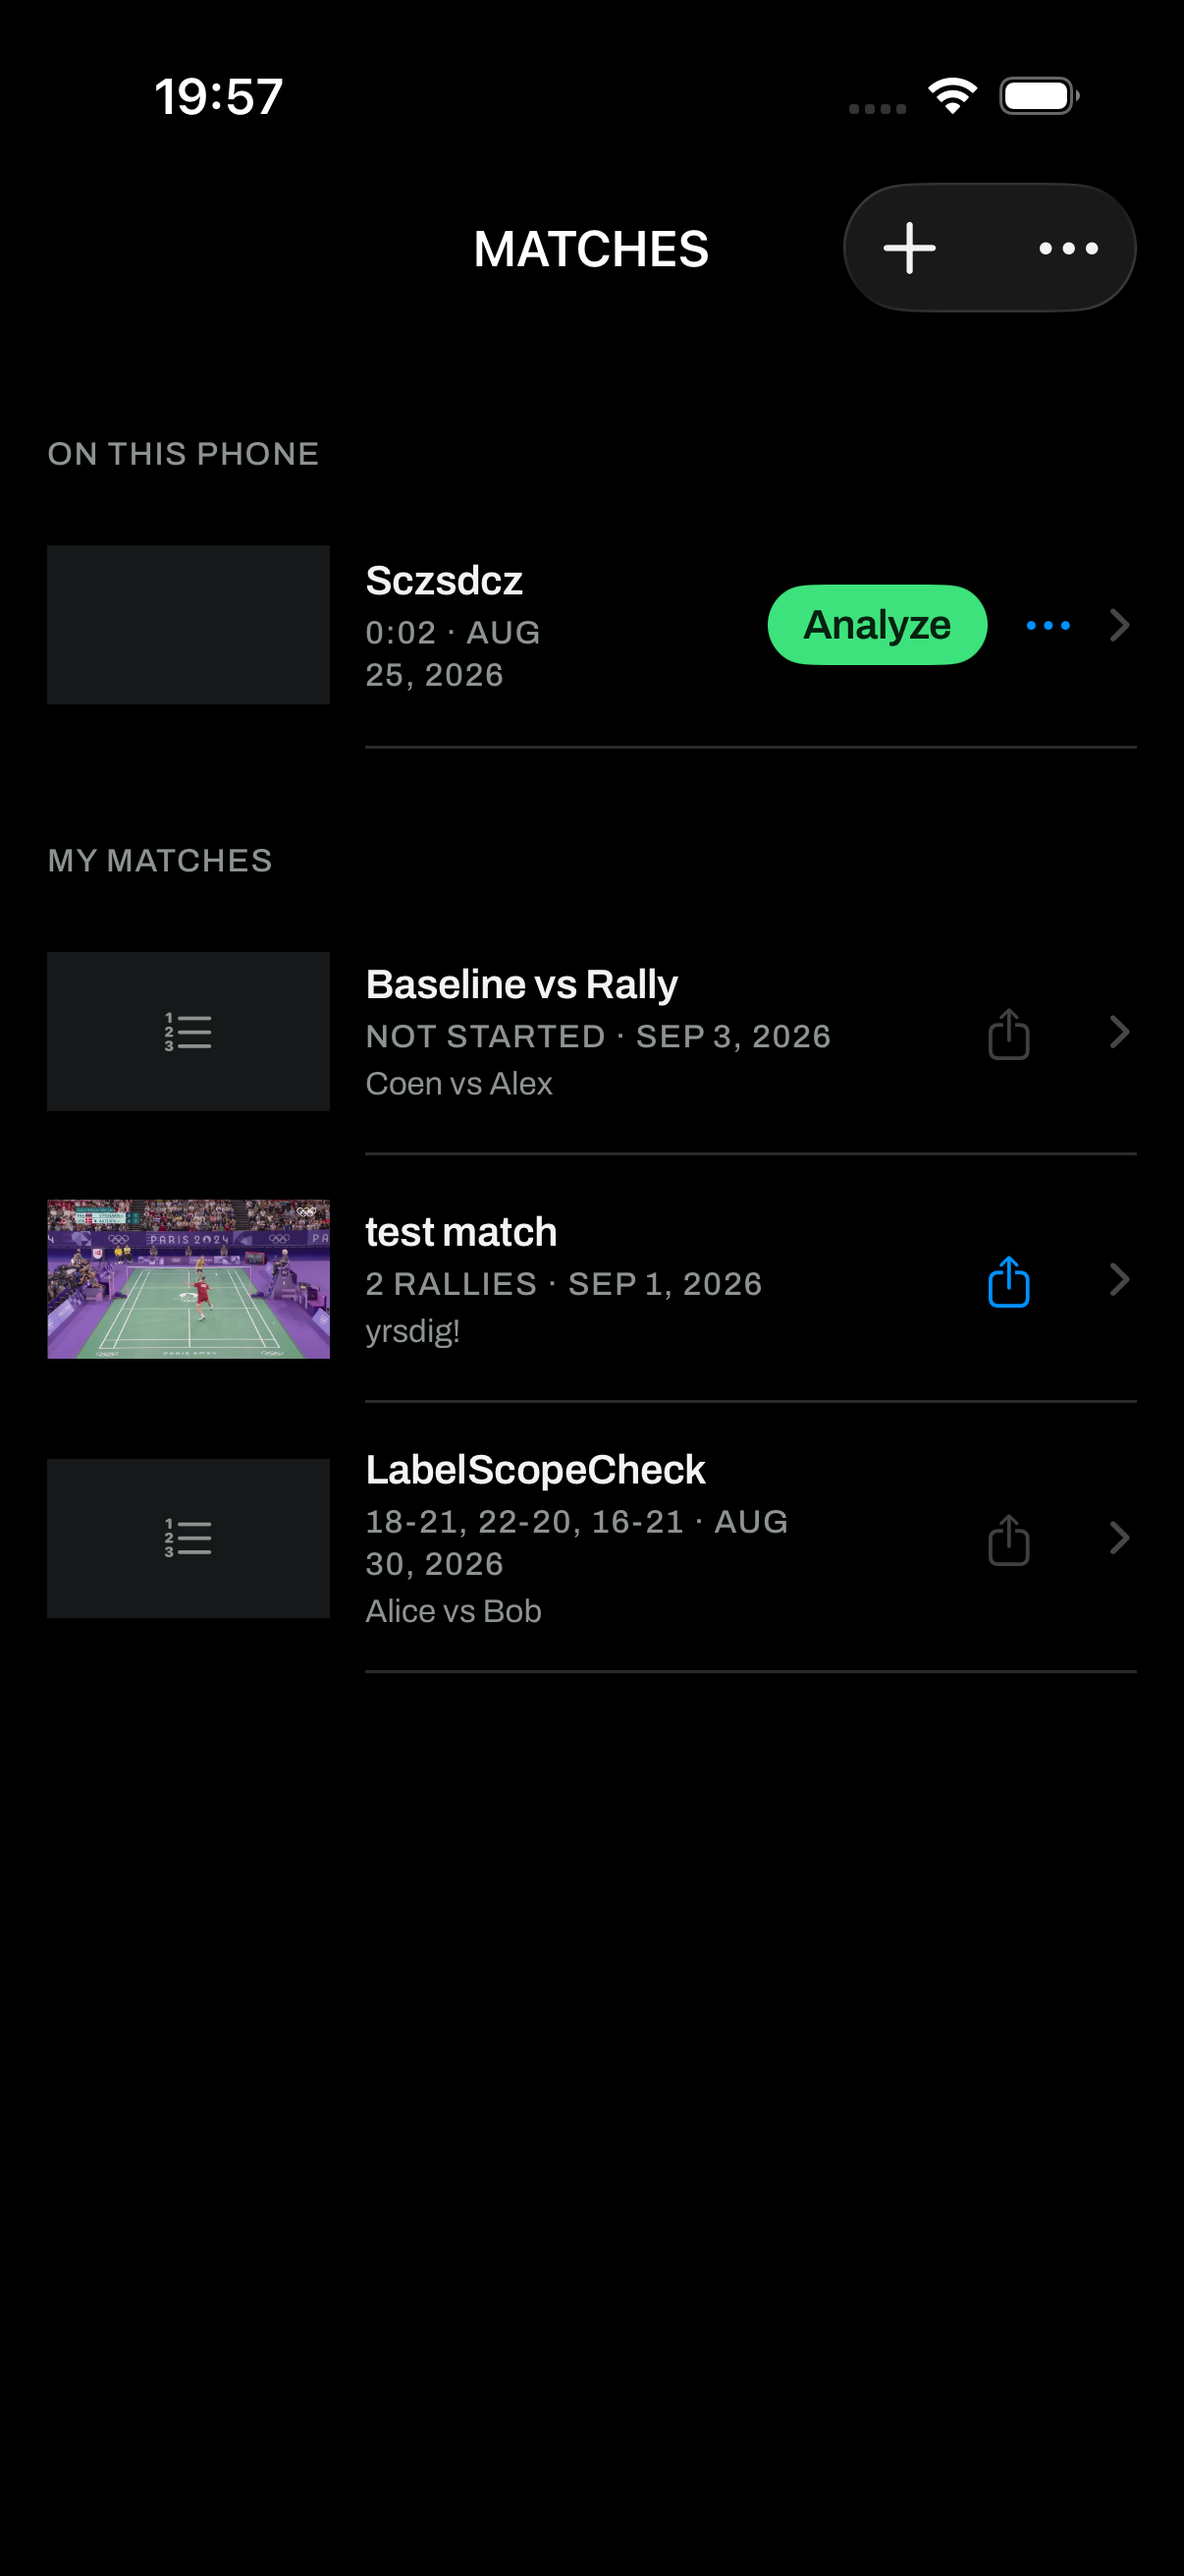
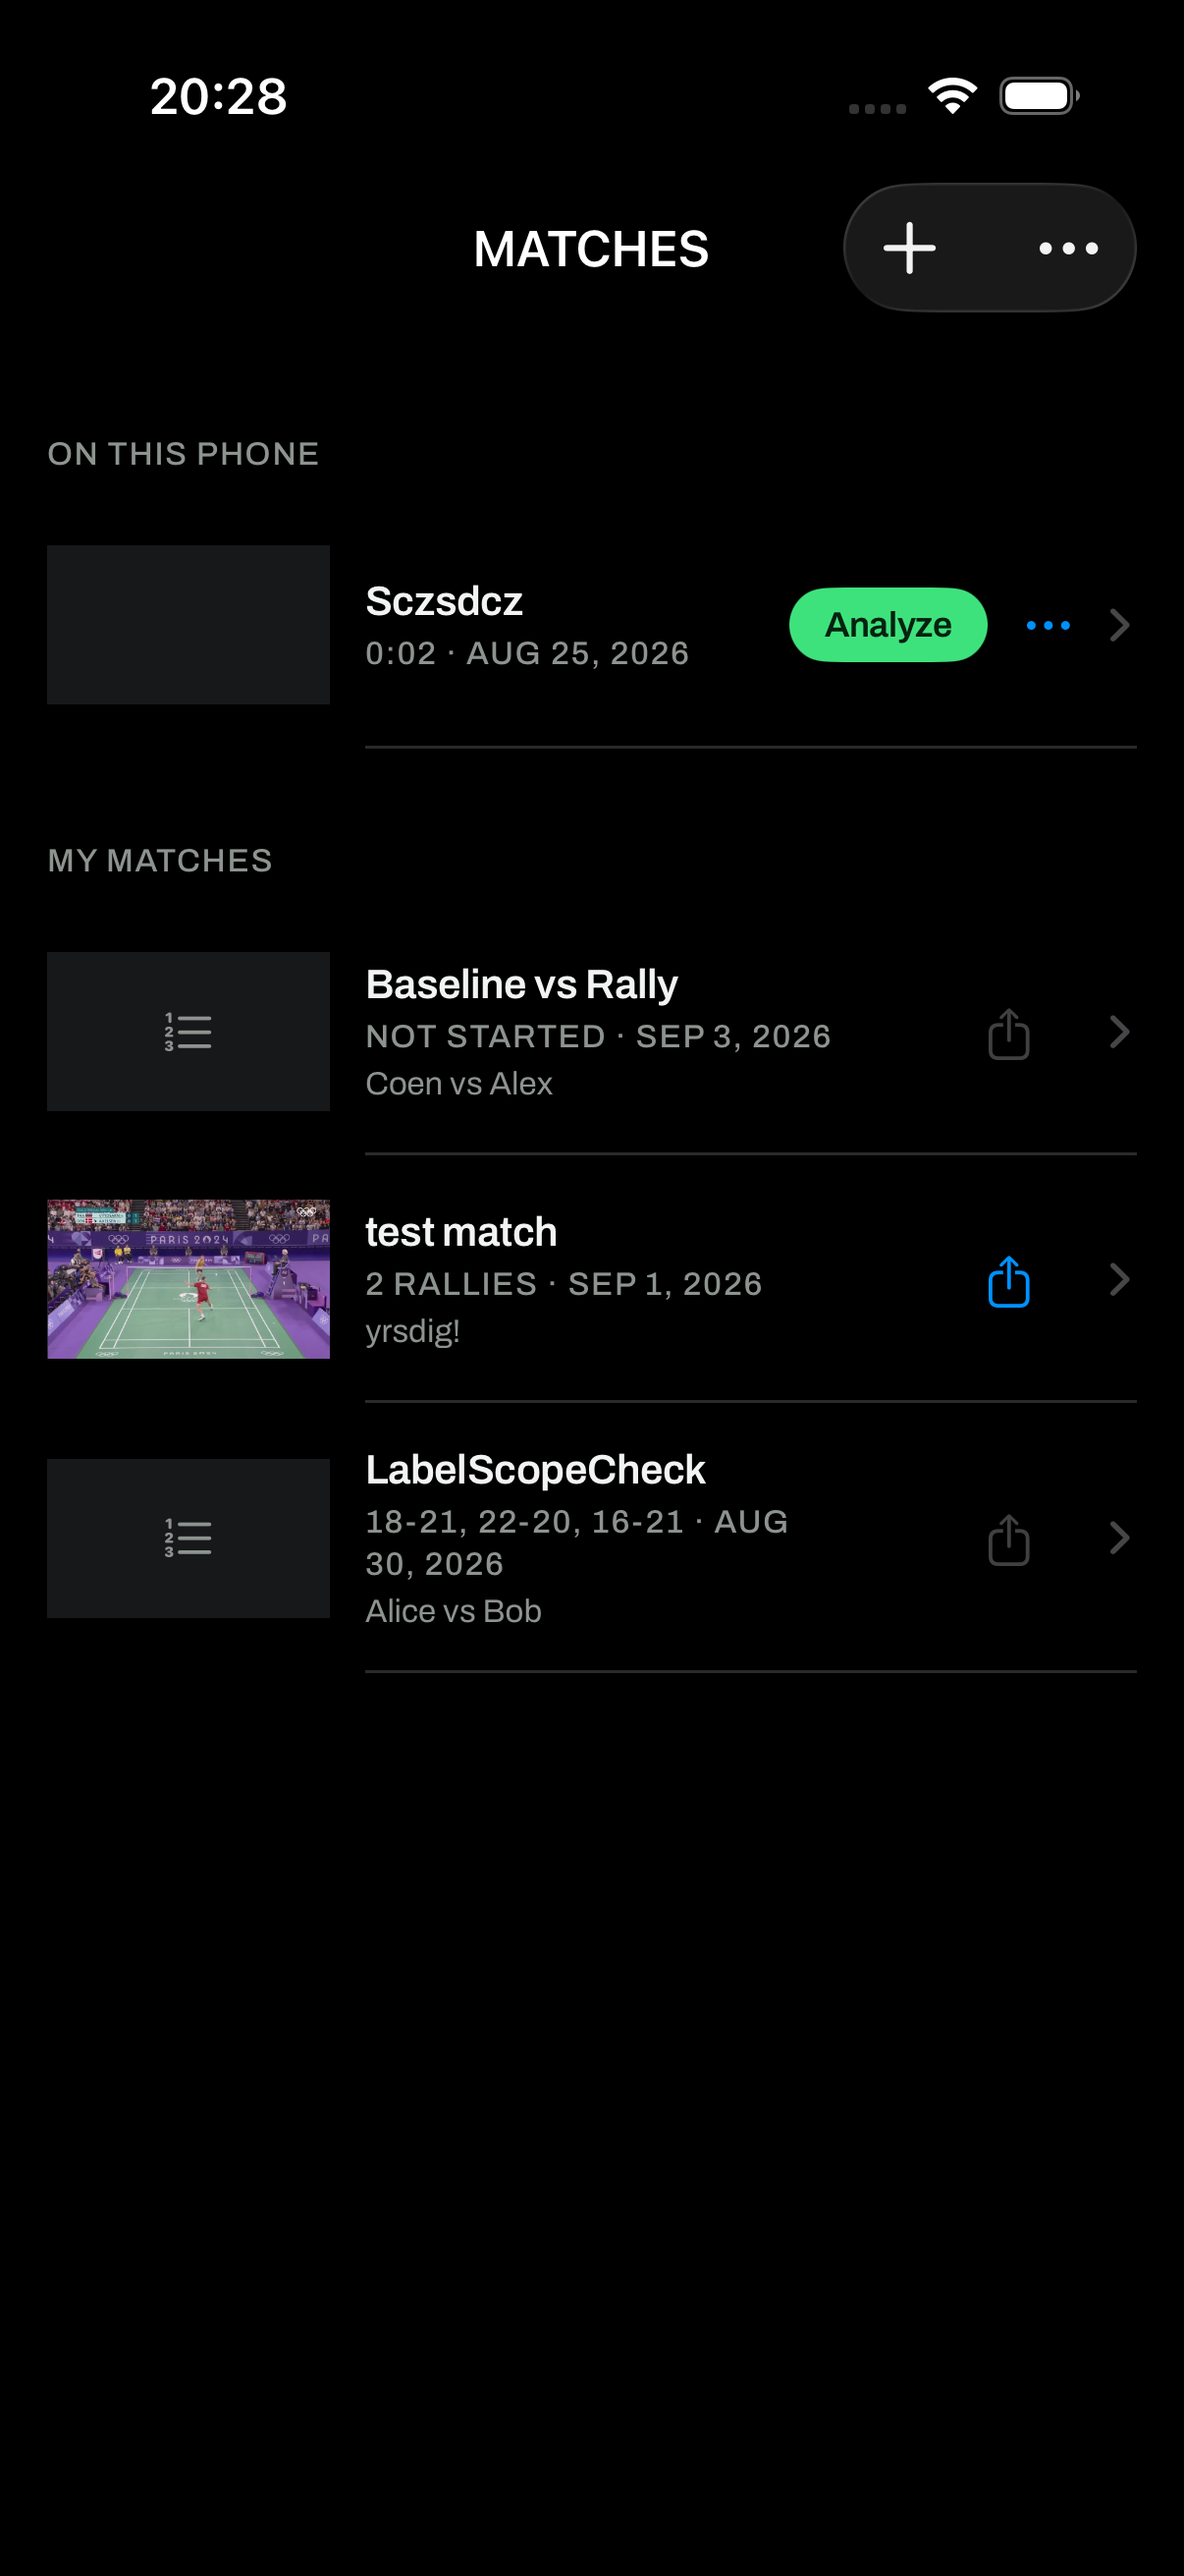
fix(ios,android): brand wordmark weight and small semibold label size
Task 2's font conversion mapped the brand mark to headlineLarge (28pt medium),
losing the original 24pt heavy weight since the scale had no heavy or bold role
- while Android's own brand mark asked for FontWeight.ExtraBold, a weight the
app does not bundle at all. Added a wordmark role (24pt, bold, the heaviest
weight actually bundled) to both platforms' scale and pointed both brand marks
at it.

The same conversion also mapped every footnote-semibold pill and section label
(Mark court, Retry, Speed, Skip interval, the toolbar Analyze button) up to
titleMedium, growing them from 13pt to 15pt. The scale had no small emphasis
role to reach for instead. Added labelMedium (13pt, semibold) and remapped the
8 sites that were genuinely footnote-semibold pre-conversion, verified against
the commit that introduced them.

Extended both platforms' parity tests from 10 roles/40 numbers to 12/48 and
re-captured the two Matches-list screenshots the size regression was visible
in.

diff --git a/iosApp/Tests/ShuttlTypeTests.swift b/iosApp/Tests/ShuttlTypeTests.swift
@@ -23,8 +23,10 @@ final class ShuttlTypeTests: XCTestCase {
             Expected(role: ShuttlType.headlineLarge, size: 28, weight: .medium, trackingEm: -0.030),
             Expected(role: ShuttlType.headlineMedium, size: 22, weight: .medium, trackingEm: -0.020),
             Expected(role: ShuttlType.statNumber, size: 26, weight: .medium, trackingEm: -0.030),
+            Expected(role: ShuttlType.wordmark, size: 24, weight: .bold, trackingEm: -0.010),
             Expected(role: ShuttlType.titleLarge, size: 16, weight: .semibold, trackingEm: -0.010),
             Expected(role: ShuttlType.titleMedium, size: 15, weight: .semibold, trackingEm: -0.010),
+            Expected(role: ShuttlType.labelMedium, size: 13, weight: .semibold, trackingEm: -0.010),
             Expected(role: ShuttlType.bodyLarge, size: 16, weight: .regular, trackingEm: 0),
             Expected(role: ShuttlType.bodyMedium, size: 14, weight: .regular, trackingEm: 0),
             Expected(role: ShuttlType.bodySmall, size: 12, weight: .regular, trackingEm: 0),
@@ -68,8 +70,10 @@ final class ShuttlTypeTests: XCTestCase {
         XCTAssertEqual(ShuttlType.headlineLarge.lineHeightMultiple, 1.15, accuracy: 0.001)
         XCTAssertEqual(ShuttlType.headlineMedium.lineHeightMultiple, 1.20, accuracy: 0.001)
         XCTAssertEqual(ShuttlType.statNumber.lineHeightMultiple, 1.15, accuracy: 0.001)
+        XCTAssertEqual(ShuttlType.wordmark.lineHeightMultiple, 1.20, accuracy: 0.001)
         XCTAssertEqual(ShuttlType.titleLarge.lineHeightMultiple, 1.30, accuracy: 0.001)
         XCTAssertEqual(ShuttlType.titleMedium.lineHeightMultiple, 1.30, accuracy: 0.001)
+        XCTAssertEqual(ShuttlType.labelMedium.lineHeightMultiple, 1.30, accuracy: 0.001)
         XCTAssertEqual(ShuttlType.bodyLarge.lineHeightMultiple, 1.45, accuracy: 0.001)
         XCTAssertEqual(ShuttlType.bodyMedium.lineHeightMultiple, 1.45, accuracy: 0.001)
         XCTAssertEqual(ShuttlType.bodySmall.lineHeightMultiple, 1.40, accuracy: 0.001)

diff --git a/iosApp/Sources/Theme/ShuttlType.swift b/iosApp/Sources/Theme/ShuttlType.swift
@@ -52,16 +52,18 @@ enum ShuttlType {
     static let headlineLarge    = Role(name: "headlineLarge", size: 28, weight: .medium, trackingEm: -0.030, lineHeightMultiple: 1.15)
     static let headlineMedium   = Role(name: "headlineMedium", size: 22, weight: .medium, trackingEm: -0.020, lineHeightMultiple: 1.20)
     static let statNumber       = Role(name: "statNumber", size: 26, weight: .medium, trackingEm: -0.030, lineHeightMultiple: 1.15)
+    static let wordmark         = Role(name: "wordmark", size: 24, weight: .bold, trackingEm: -0.010, lineHeightMultiple: 1.20)
     static let titleLarge       = Role(name: "titleLarge", size: 16, weight: .semibold, trackingEm: -0.010, lineHeightMultiple: 1.30)
     static let titleMedium      = Role(name: "titleMedium", size: 15, weight: .semibold, trackingEm: -0.010, lineHeightMultiple: 1.30)
+    static let labelMedium      = Role(name: "labelMedium", size: 13, weight: .semibold, trackingEm: -0.010, lineHeightMultiple: 1.30)
     static let bodyLarge        = Role(name: "bodyLarge", size: 16, weight: .regular, trackingEm: 0, lineHeightMultiple: 1.45)
     static let bodyMedium       = Role(name: "bodyMedium", size: 14, weight: .regular, trackingEm: 0, lineHeightMultiple: 1.45)
     static let bodySmall        = Role(name: "bodySmall", size: 12, weight: .regular, trackingEm: 0, lineHeightMultiple: 1.40)
     static let labelSmall       = Role(name: "labelSmall", size: 11, weight: .medium, trackingEm: 0.050, lineHeightMultiple: 1.30)
 
     static let allRoles: [Role] = [
-        display, headlineLarge, headlineMedium, statNumber,
-        titleLarge, titleMedium, bodyLarge, bodyMedium, bodySmall, labelSmall,
+        display, headlineLarge, headlineMedium, statNumber, wordmark,
+        titleLarge, titleMedium, labelMedium, bodyLarge, bodyMedium, bodySmall, labelSmall,
     ]
 }
 

diff --git a/androidApp/src/main/java/com/badmintontracker/android/ui/theme/ShuttlType.kt b/androidApp/src/main/java/com/badmintontracker/android/ui/theme/ShuttlType.kt
@@ -33,8 +33,10 @@ internal object ShuttlScale {
     val headlineLarge  = Role(28f, FontWeight.Medium, -0.030f, 1.15f)
     val headlineMedium = Role(22f, FontWeight.Medium, -0.020f, 1.20f)
     val statNumber     = Role(26f, FontWeight.Medium, -0.030f, 1.15f)
+    val wordmark       = Role(24f, FontWeight.Bold, -0.010f, 1.20f)
     val titleLarge     = Role(16f, FontWeight.SemiBold, -0.010f, 1.30f)
     val titleMedium    = Role(15f, FontWeight.SemiBold, -0.010f, 1.30f)
+    val labelMedium    = Role(13f, FontWeight.SemiBold, -0.010f, 1.30f)
     val bodyLarge      = Role(16f, FontWeight.Normal, 0f, 1.45f)
     val bodyMedium     = Role(14f, FontWeight.Normal, 0f, 1.45f)
     val bodySmall      = Role(12f, FontWeight.Normal, 0f, 1.40f)
@@ -90,10 +92,15 @@ internal val ShuttlTypography = Typography(
 )
 
 /**
- * The two roles M3's [Typography] has no slot for. Phase 2's hero uses
- * [display]; phase 3's stat tiles use [statNumber].
+ * Roles M3's [Typography] has no slot for. Phase 2's hero uses [display];
+ * phase 3's stat tiles use [statNumber]; the sign-in brand mark uses
+ * [wordmark]. [labelMedium] mirrors iosApp's small-emphasis role for the
+ * two platforms' scale tables to stay identical; nothing on Android reaches
+ * for it yet since Task 2's conversion was iOS-only.
  */
 internal object ShuttlTypeExtras {
-    val display    = ShuttlScale.display.toTextStyle()
-    val statNumber = ShuttlScale.statNumber.toTextStyle()
+    val display     = ShuttlScale.display.toTextStyle()
+    val statNumber  = ShuttlScale.statNumber.toTextStyle()
+    val wordmark    = ShuttlScale.wordmark.toTextStyle()
+    val labelMedium = ShuttlScale.labelMedium.toTextStyle()
 }

diff --git a/androidApp/src/main/java/com/badmintontracker/android/signin/SignInScreen.kt b/androidApp/src/main/java/com/badmintontracker/android/signin/SignInScreen.kt
@@ -20,10 +20,8 @@ import androidx.compose.runtime.LaunchedEffect
 import androidx.compose.runtime.getValue
 import androidx.compose.ui.Alignment
 import androidx.compose.ui.Modifier
-import androidx.compose.ui.text.font.FontWeight
 import androidx.compose.ui.text.style.TextAlign
 import androidx.compose.ui.unit.dp
-import androidx.compose.ui.unit.sp
 import androidx.lifecycle.compose.collectAsStateWithLifecycle
 import com.badmintontracker.android.BuildConfig
 import com.badmintontracker.shared.prefs.ThemePreferenceRepository
@@ -34,6 +32,7 @@ import com.badmintontracker.android.ui.components.ShuttlFieldType
 import com.badmintontracker.android.ui.components.ShuttlOutlinedTextField
 import com.badmintontracker.android.ui.components.ThemeToggleButton
 import com.badmintontracker.android.ui.theme.ShuttlTheme
+import com.badmintontracker.android.ui.theme.ShuttlTypeExtras
 
 @Composable
 fun SignInScreen(
@@ -137,9 +136,7 @@ fun SignInScreen(
 private fun Brand() {
     Text(
         "SHUTTL.",
-        color         = MaterialTheme.colorScheme.onBackground,
-        fontWeight    = FontWeight.ExtraBold,
-        fontSize      = 24.sp,
-        letterSpacing = (-0.24).sp,
+        color = MaterialTheme.colorScheme.onBackground,
+        style = ShuttlTypeExtras.wordmark,
     )
 }

diff --git a/iosApp/Sources/ClipList/ClipListView.swift b/iosApp/Sources/ClipList/ClipListView.swift
@@ -543,7 +543,7 @@ struct ClipListView: View {
                         if let entry { navigationTarget = CourtMarkingRoute(entryId: entry.id) }
                     } label: {
                         Text("Mark court")
-                            .shuttlType(ShuttlType.titleMedium)
+                            .shuttlType(ShuttlType.labelMedium)
                             .foregroundStyle(Shuttl.onAccent)
                             .lineLimit(1)
                             .fixedSize(horizontal: true, vertical: false)
@@ -558,7 +558,7 @@ struct ClipListView: View {
                         if let entry { analyze.retry(entryId: entry.id) }
                     } label: {
                         Text("Retry")
-                            .shuttlType(ShuttlType.titleMedium)
+                            .shuttlType(ShuttlType.labelMedium)
                             .foregroundStyle(Shuttl.onAccent)
                             .lineLimit(1)
                             .fixedSize(horizontal: true, vertical: false)

diff --git a/androidApp/src/test/java/com/badmintontracker/android/ui/theme/ShuttlTypeTest.kt b/androidApp/src/test/java/com/badmintontracker/android/ui/theme/ShuttlTypeTest.kt
@@ -30,8 +30,10 @@ class ShuttlTypeTest {
         Expected("headlineLarge", ShuttlScale.headlineLarge, 28f, FontWeight.Medium, -0.030f, 1.15f),
         Expected("headlineMedium", ShuttlScale.headlineMedium, 22f, FontWeight.Medium, -0.020f, 1.20f),
         Expected("statNumber", ShuttlScale.statNumber, 26f, FontWeight.Medium, -0.030f, 1.15f),
+        Expected("wordmark", ShuttlScale.wordmark, 24f, FontWeight.Bold, -0.010f, 1.20f),
         Expected("titleLarge", ShuttlScale.titleLarge, 16f, FontWeight.SemiBold, -0.010f, 1.30f),
         Expected("titleMedium", ShuttlScale.titleMedium, 15f, FontWeight.SemiBold, -0.010f, 1.30f),
+        Expected("labelMedium", ShuttlScale.labelMedium, 13f, FontWeight.SemiBold, -0.010f, 1.30f),
         Expected("bodyLarge", ShuttlScale.bodyLarge, 16f, FontWeight.Normal, 0f, 1.45f),
         Expected("bodyMedium", ShuttlScale.bodyMedium, 14f, FontWeight.Normal, 0f, 1.45f),
         Expected("bodySmall", ShuttlScale.bodySmall, 12f, FontWeight.Normal, 0f, 1.40f),

diff --git a/iosApp/Sources/Match/MatchView.swift b/iosApp/Sources/Match/MatchView.swift
@@ -622,7 +622,7 @@ private struct AttachStatusBanner: View {
             case .courtNotMarked:
                 Button(action: onMarkCourt) {
                     Text("Mark court")
-                        .shuttlType(ShuttlType.titleMedium)
+                        .shuttlType(ShuttlType.labelMedium)
                         .foregroundStyle(Shuttl.onAccent)
                         .lineLimit(1)
                         .fixedSize(horizontal: true, vertical: false)
@@ -635,7 +635,7 @@ private struct AttachStatusBanner: View {
             case .failed:
                 Button(action: onRetry) {
                     Text("Retry")
-                        .shuttlType(ShuttlType.titleMedium)
+                        .shuttlType(ShuttlType.labelMedium)
                         .foregroundStyle(Shuttl.onAccent)
                         .lineLimit(1)
                         .fixedSize(horizontal: true, vertical: false)

diff --git a/iosApp/Sources/Components/PlaybackControlBar.swift b/iosApp/Sources/Components/PlaybackControlBar.swift
@@ -124,7 +124,7 @@ private struct PlaybackSettingsSheet: View {
                 }
 
                 Text("Speed")
-                    .shuttlType(ShuttlType.titleMedium)
+                    .shuttlType(ShuttlType.labelMedium)
                     .foregroundStyle(Shuttl.textSecondary)
                 ChipFlow {
                     ForEach(speedOptions, id: \.self) { option in
@@ -136,7 +136,7 @@ private struct PlaybackSettingsSheet: View {
                 }
 
                 Text("Skip interval")
-                    .shuttlType(ShuttlType.titleMedium)
+                    .shuttlType(ShuttlType.labelMedium)
                     .foregroundStyle(Shuttl.textSecondary)
                 ChipFlow {
                     ForEach(skipOptions, id: \.self) { option in

diff --git a/iosApp/Sources/LocalVideo/LocalVideoSection.swift b/iosApp/Sources/LocalVideo/LocalVideoSection.swift
@@ -57,7 +57,7 @@ struct LocalVideoRowView: View {
                 Spacer()
                 if LocalVideoStatus.canAnalyze(stage: entry.stage) {
                     Button(LocalVideoStatus.analyzeButtonLabel(stage: entry.stage)) { onAnalyze() }
-                        .shuttlType(ShuttlType.titleMedium)
+                        .shuttlType(ShuttlType.labelMedium)
                         .foregroundStyle(Shuttl.onAccent)
                         .lineLimit(1)
                         .fixedSize(horizontal: true, vertical: false)

diff --git a/iosApp/Sources/LocalVideo/LocalPlayerView.swift b/iosApp/Sources/LocalVideo/LocalPlayerView.swift
@@ -113,7 +113,7 @@ struct LocalPlayerView: View {
                     Button(LocalVideoStatus.analyzeButtonLabel(stage: stage)) {
                         courtTarget = CourtMarkingRoute(entryId: entryId)
                     }
-                    .shuttlType(ShuttlType.titleMedium)
+                    .shuttlType(ShuttlType.labelMedium)
                     .lineLimit(1)
                     .fixedSize(horizontal: true, vertical: false)
                 }

diff --git a/iosApp/Sources/SignIn/SignInView.swift b/iosApp/Sources/SignIn/SignInView.swift
@@ -73,7 +73,7 @@ struct SignInView: View {
 
     private var brand: some View {
         Text("SHUTTL.")
-            .shuttlType(ShuttlType.headlineLarge)
+            .shuttlType(ShuttlType.wordmark)
             .foregroundStyle(Shuttl.textHeading)
     }
 
